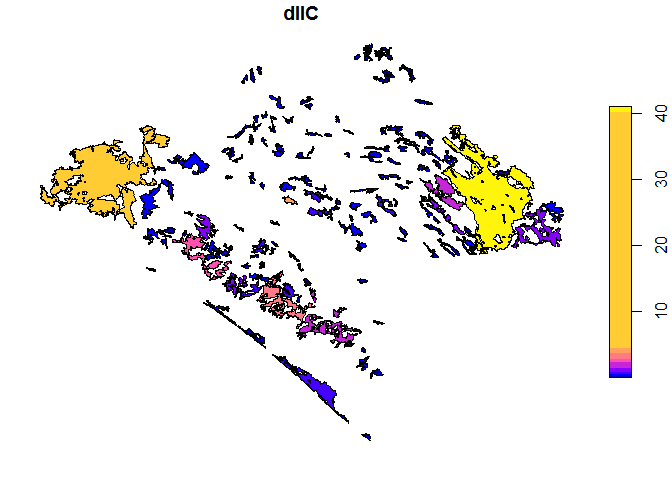
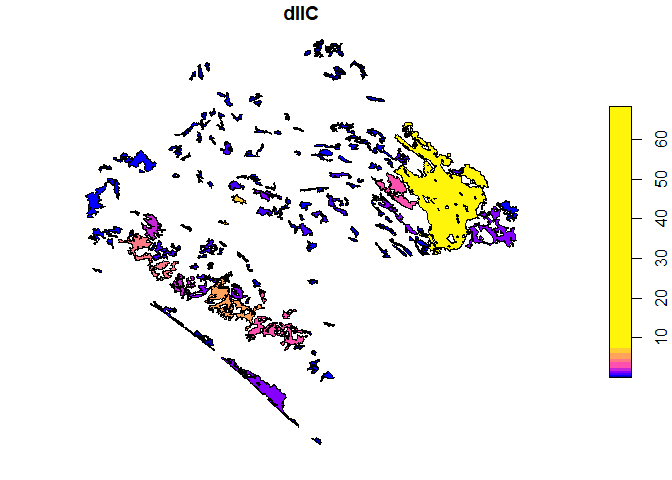
Added travis file.

diff --git a/README.md b/README.md
@@ -1,69 +1,72 @@
 
 <!-- README.md is generated from README.Rmd. Please edit that file -->
-Makurhini
-=========
+
+# Makurhini
 
 <!-- badges: start -->
+
+[![Travis build
+status](https://travis-ci.org/OscarGOGO/Makurhini.svg?branch=master)](https://travis-ci.org/OscarGOGO/Makurhini)
 <!-- badges: end -->
-The goal of Makurhini is to provide a set of functions to estimate landscape fragmentation and connectivity metrics
 
-Installation
-------------
+The goal of Makurhini is to provide a set of functions to estimate
+landscape fragmentation and connectivity metrics
 
-You can install the released version of Makurhini from [CRAN](https://CRAN.R-project.org) with:
+## Installation
+
+You can install the released version of Makurhini from
+[CRAN](https://CRAN.R-project.org) with:
 
 ``` r
 install.packages("Makurhini")
 ```
 
-Example
--------
+## Example
 
 This is a basic example which shows you how to solve a common problem:
 
 ``` r
 library(sf)
-#> Warning: package 'sf' was built under R version 3.5.1
 #> Linking to GEOS 3.6.1, GDAL 2.2.3, PROJ 4.9.3
 ## basic example code
 ```
 
 ``` r
 library(Makurhini)
-ruta <- system.file("extdata", "Habitat_Patches.shp", package = "Makurhini")
-cores <- read_sf(ruta)
+ruta <- system.file("extdata", "Fragmentation.RData", package = "Makurhini")
+load(ruta)
 cores
-#> Simple feature collection with 143 features and 2 fields
+#> Simple feature collection with 142 features and 1 field
 #> geometry type:  POLYGON
 #> dimension:      XY
-#> bbox:           xmin: 3246137 ymin: 322869.6 xmax: 3739484 ymax: 696540.5
+#> bbox:           xmin: 3340120 ymin: 322869.6 xmax: 3739484 ymax: 696540.5
 #> epsg (SRID):    NA
 #> proj4string:    +proj=lcc +lat_1=17.5 +lat_2=29.5 +lat_0=12 +lon_0=-102 +x_0=2500000 +y_0=0 +datum=WGS84 +units=m +no_defs
-#> # A tibble: 143 x 3
-#>       id   Area                                                    geometry
-#>    <int>  <dbl>                                               <POLYGON [m]>
-#>  1  1347 4196.  ((3676911 589967.3, 3676931 589895.5, 3676948 589818.3, 36~
-#>  2  1609   60.2 ((3558044 696202.5, 3557972 696280.9, 3557957 696291.6, 35~
-#>  3  1632   48.9 ((3569169 687776.4, 3569146 687749.5, 3569096 687745.6, 35~
-#>  4  1643   15.2 ((3547317 685713.2, 3547363 685573.9, 3547391 685401.4, 35~
-#>  5  1650   33.3 ((3567471 684357.4, 3567380 684214.3, 3567303 684046, 3567~
-#>  6  1659   53.1 ((3590569 672451.7, 3590090 672574.9, 3589912 672547.5, 35~
-#>  7  1660   83.8 ((3570789 670959.4, 3570860 671015.4, 3570909 671019.3, 35~
-#>  8  1661   17.4 ((3440118 666273.2, 3440372 666849.2, 3440584 667001.7, 34~
-#>  9  1662   18.0 ((3451637 671232.4, 3451616 671287.1, 3451535 671315.1, 34~
-#> 10  1663   36.3 ((3444396 671675.7, 3444715 671834.8, 3444873 672019, 3444~
-#> # ... with 133 more rows
+#> # A tibble: 142 x 2
+#>       id                                                           geometry
+#>    <int>                                                      <POLYGON [m]>
+#>  1     1 ((3676911 589967.3, 3676931 589895.5, 3676948 589818.3, 3676957 5~
+#>  2     2 ((3558044 696202.5, 3557972 696280.9, 3557957 696291.6, 3558118 6~
+#>  3     3 ((3569169 687776.4, 3569146 687749.5, 3569096 687745.6, 3569069 6~
+#>  4     4 ((3547317 685713.2, 3547363 685573.9, 3547391 685401.4, 3547435 6~
+#>  5     5 ((3567471 684357.4, 3567380 684214.3, 3567303 684046, 3567224 683~
+#>  6     6 ((3590569 672451.7, 3590090 672574.9, 3589912 672547.5, 3589761 6~
+#>  7     7 ((3570789 670959.4, 3570860 671015.4, 3570909 671019.3, 3570932 6~
+#>  8     8 ((3440118 666273.2, 3440372 666849.2, 3440584 667001.7, 3440838 6~
+#>  9     9 ((3451637 671232.4, 3451616 671287.1, 3451535 671315.1, 3451413 6~
+#> 10    10 ((3444396 671675.7, 3444715 671834.8, 3444873 672019, 3444773 672~
+#> # ... with 132 more rows
 ```
 
 <img src="man/figures/README-cores-1.png" width="100%" />
 
 ``` r
 nrow(cores)
-#> [1] 143
-IIC <- dConnectivity(nodes = cores, id = "id", attribute = "Area",
-                     distance = list(type = "centroid"),
-                     metric = "IIC", distance_thresholds = 30000,
-                     LA = NULL, overall = FALSE)
+#> [1] 142
+IIC <- MK_dPCIIC(nodes = cores, id = "id", attribute = NULL,
+                 distance = list(type = "centroid"),
+                 metric = "IIC", distance_thresholds = 30000,
+                 LA = NULL, overall = FALSE)
 plot(IIC["dIIC"], breaks = "jenks")
 ```
 
